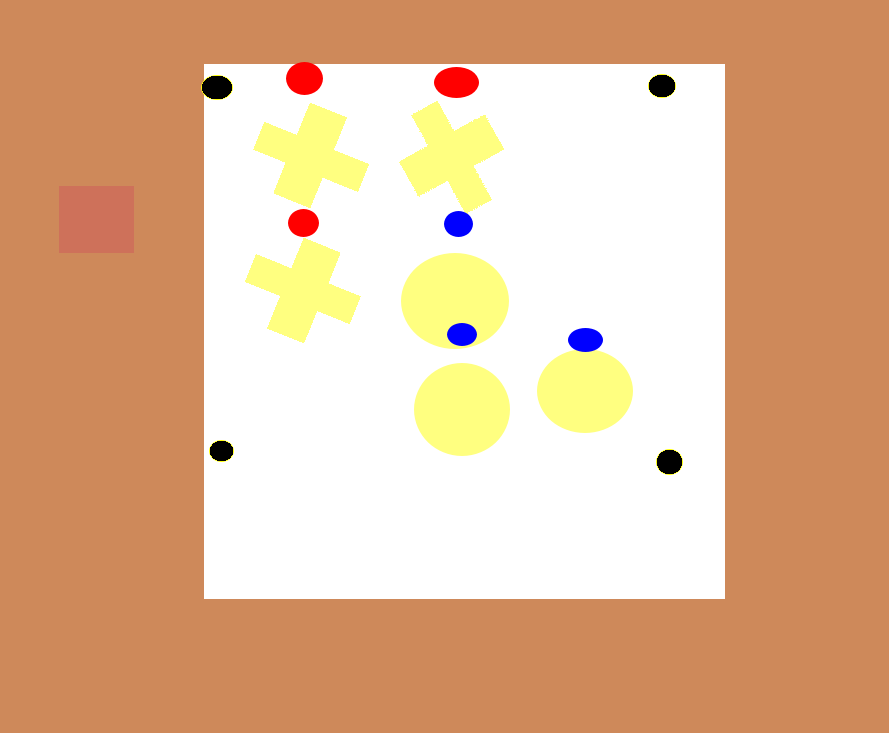
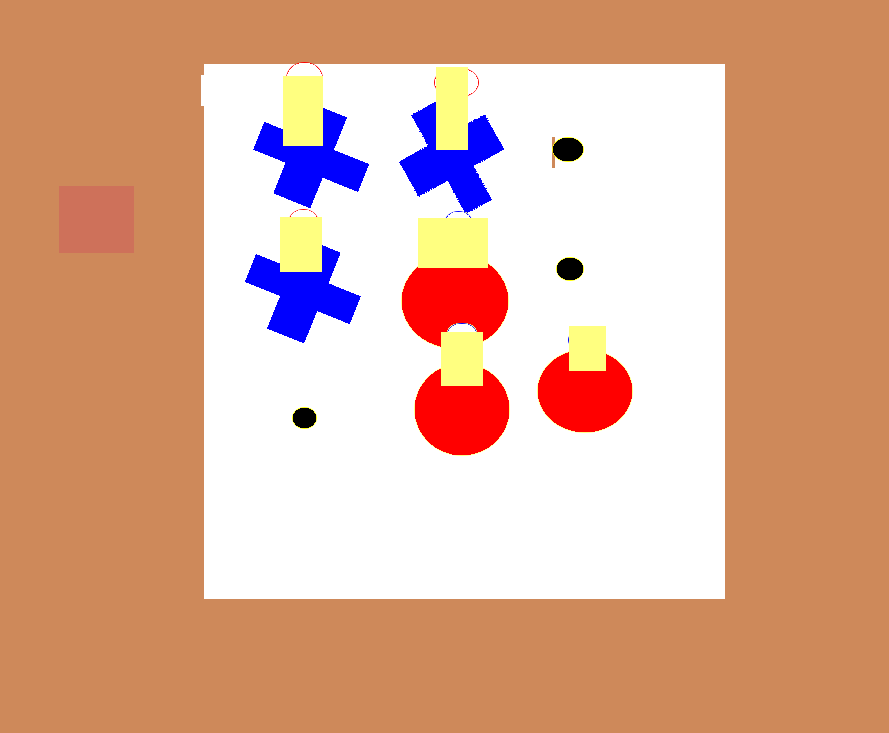
added conversion

diff --git a/vision/vision.py b/vision/vision.py
@@ -1,26 +1,62 @@
 import cv2
+import numpy as np
+
 
 # processes an image into the gameboard vector
 def process_image(img):
     # image is initially BGR (confirmed)
     # convert to HSV (H[0,179], S[0,255], V[0,255])
-    hsv = cv2.cvtColor(img, cv2.COLOR_BGR2HSV)
-    rgb = cv2.cvtColor(hsv, cv2.COLOR_HSV2RGB)
+    img = cv2.cvtColor(img, cv2.COLOR_BGR2HSV)
     
-    # isolate black dots
+    # ISOLATE BLACK DOTS, EMPTY LOCATIONS
+    # threshold the HSV
     low_H = 0
     low_S = 0
     low_V = 0
     high_H = 255
     high_S = 255
     high_V = 50
-    print(cv2.cvtColor(hsv, cv2.COLOR_HSV2RGB)[225,460])
-    black_dots = cv2.inRange(hsv, (low_H, low_S, low_V), (high_H, high_S, high_V))
-    print("black dots", black_dots[225,460])
-    cv2.imwrite("rgb.png", black_dots)
+    
+    img_black = cv2.inRange(img, (low_H, low_S, low_V), (high_H, high_S, high_V))
+    
+    # decay, expand
+    kernel = np.ones((5,5), np.uint8)
+    img_black = cv2.erode(img_black, kernel, iterations=2)
+    img_black = cv2.dilate(img_black, kernel, iterations=4)
 
-    # threshold yellow dots
-    threshold_dots = cv2.threshold(img, cv2.rgb())
+    # find blobs
+    img_black = cv2.bitwise_not(img_black)
+    detector = cv2.SimpleBlobDetector_create()
+    keypoints = detector.detect(img_black)
+    locations = cv2.KeyPoint_convert(keypoints)
+
+    empty_locations = locations
+
+    # ISOLATE RED CIRCLES, O LOCATIONS
+    # threshold the HSV
+    low_H = 0
+    low_S = 0
+    low_V = 0
+    high_H = 5
+    high_S = 200
+    high_V = 255
+    
+    img_red = cv2.inRange(img, (low_H, low_S, low_V), (high_H, high_S, high_V))
+    cv2.imshow("red", img_red)
+    # decay, expand
+    kernel = np.ones((5,5), np.uint8)
+    img_red = cv2.erode(img_red, kernel, iterations=2)
+    img_red = cv2.dilate(img_red, kernel, iterations=4)
+
+    # find blobs
+    img_red = cv2.bitwise_not(img_red)
+    detector = cv2.SimpleBlobDetector_create()
+    keypoints = detector.detect(img_red)
+    locations = cv2.KeyPoint_convert(keypoints)
+
+    o_locations = locations
+
+    cv2.imwrite("rgb.png", img_red)
 
     cv2.imwrite("base.png", img)
 

diff --git a/logic/training/convert_pkl_to_python2.py b/logic/training/convert_pkl_to_python2.py
@@ -1,0 +1,6 @@
+import pickle
+
+with open("trained_agent_saved_backup.pkl", "rb") as f:
+    w = pickle.load(f)
+
+pickle.dump(w, open("trained_agent_saved.pkl","wb"), protocol=2)

diff --git a/README.md b/README.md
@@ -1,2 +1,10 @@
 # fetch-tic-tac-toe
 Fetch plays Tic Tac Toe! For the Science and Engineering Day 2022 outreach event
+
+
+# To use:
+
+## Launch the game logic ROS node
+
+`cd logic`
+`python3 gamelogic.py`
